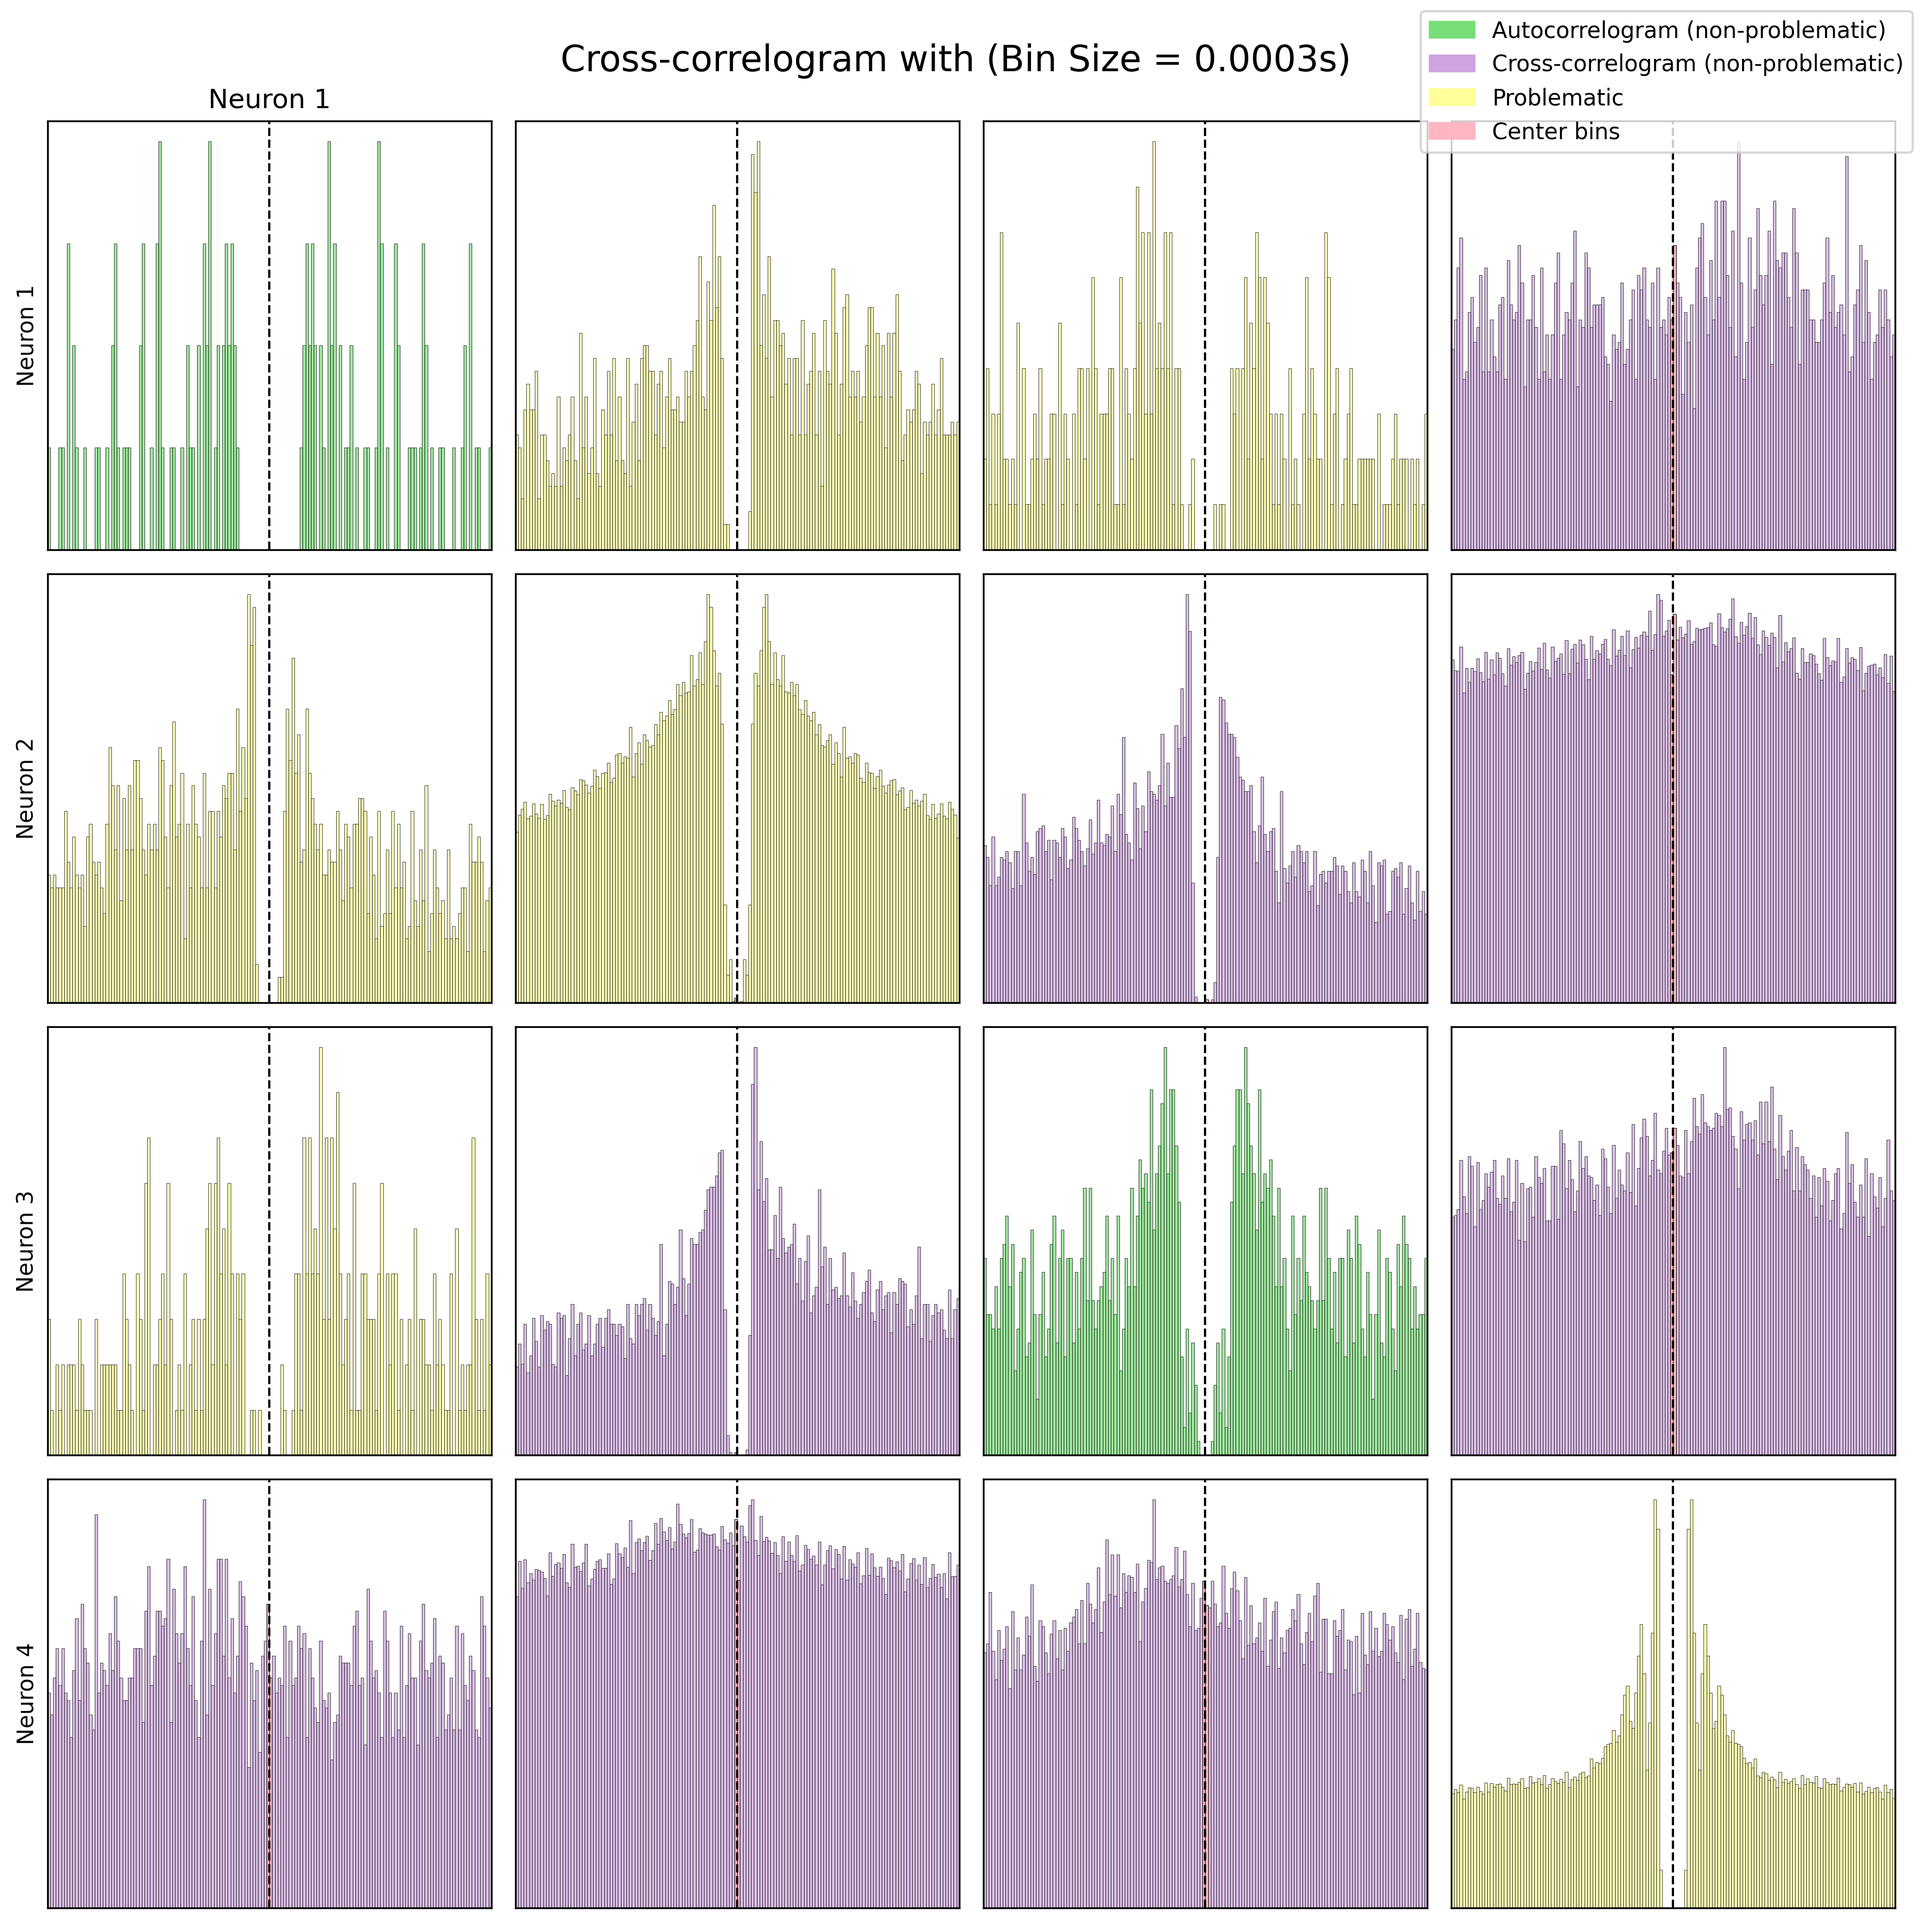
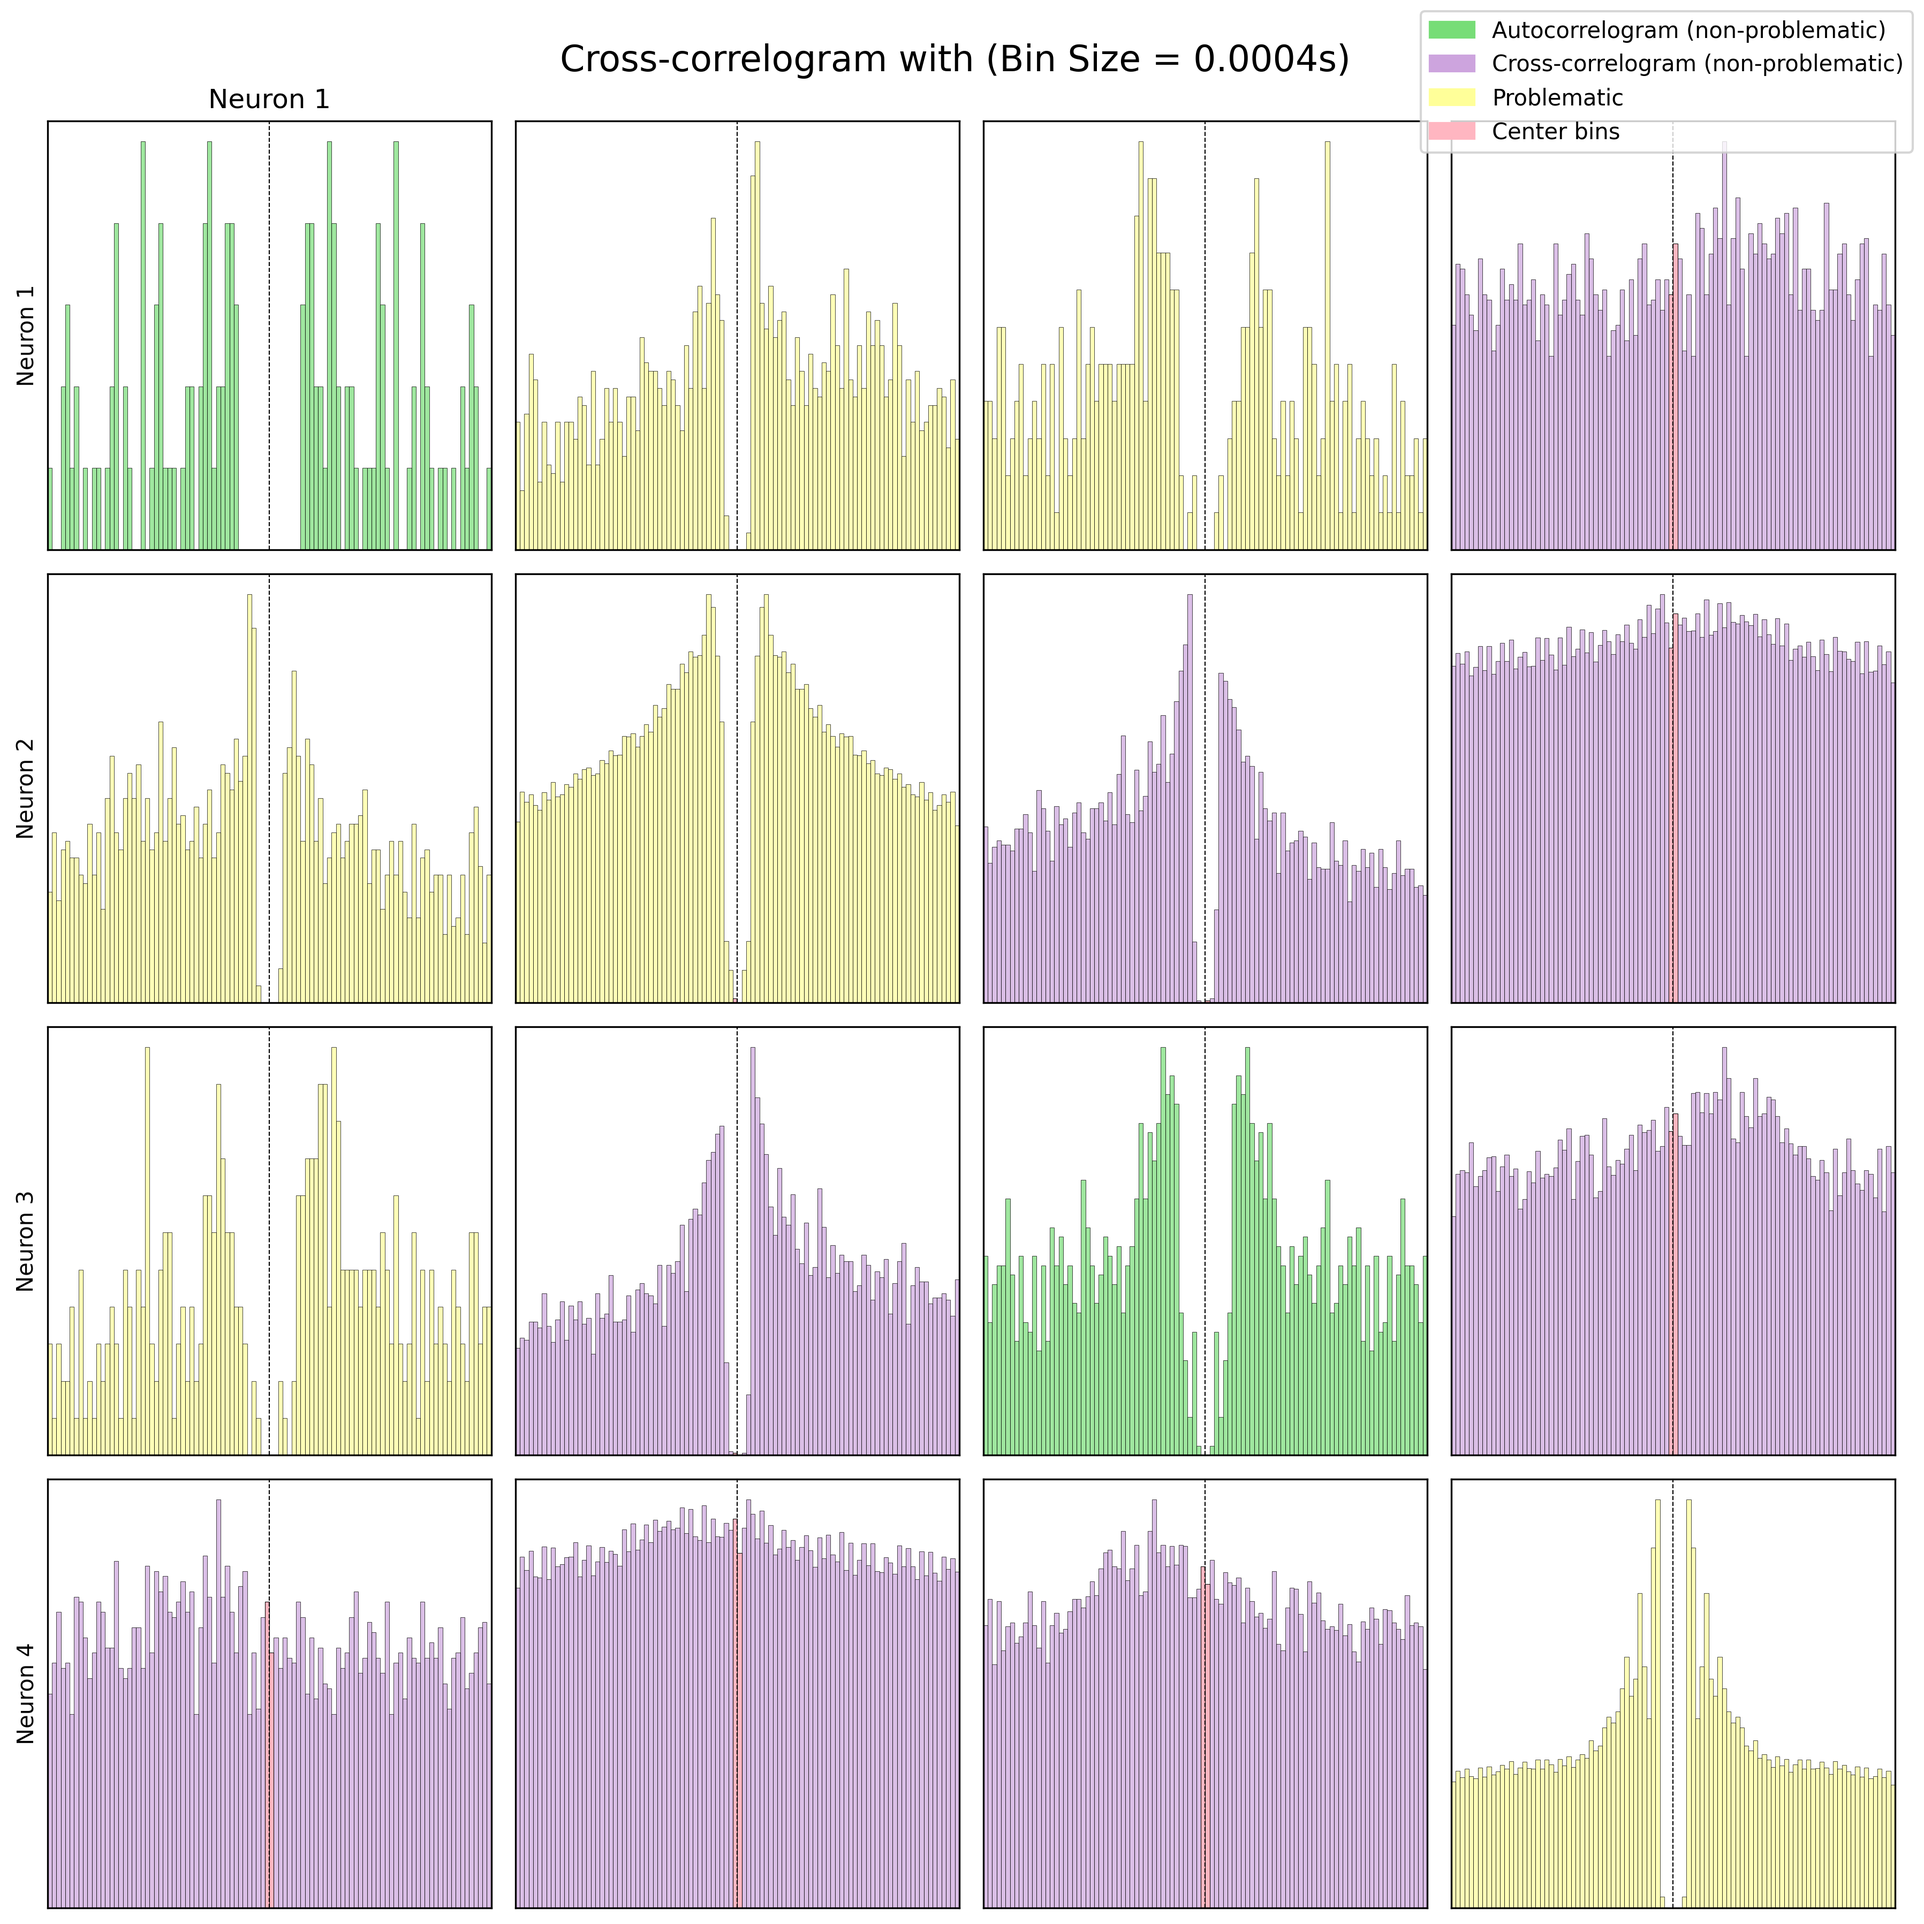
adapted bin calculation such that it aligns across functions

diff --git a/finalbsa.py b/finalbsa.py
@@ -107,11 +107,14 @@ TODO
 
 """
 # Bin sizes dictionary
-binsizes = { # We chose 0.0005s for all datasets because of our exclusion criteria
-    "ctrl_rat_1": 0.00025,
-    "ctrl_rat_2": 0.00025,
-    "exp_rat_2": 0.00025,
-    "exp_rat_3": 0.00025
+binsizes = { # We chose 0.0004s for all datasets because of our exclusion criteria -> elsevier "2 Define refractory period.
+# Immediately after a nerve impulse is triggered, an ordinary stimulus is not able to generate another impulse. This brief period is termed the refractory period. 
+# The refractory period consists of two phases—the absolute refractory period and the relative refractory period. The absolute refractory period lasts about 1/2500 of a second and is followed by the relative refractory period. 
+# During the relative refractory period, a higher intensity stimulus can trigger an impulse."
+    "ctrl_rat_1": 0.0004,
+    "ctrl_rat_2": 0.0004,
+    "exp_rat_2": 0.0004,
+    "exp_rat_3": 0.0004
 }
 
 # Example dictionary of datasets:
@@ -122,41 +125,24 @@ datasets = {
     "exp_rat_3":  (exp_rat_3_neurons_data, non_stimuli_time_4)
 }
 
-# Loop over each dataset
-# for dataset_name, (neurons_data, time_window) in datasets.items():
-#     # Plot and store correlogram data for this dataset
-#     correlogram_data = plot_correlogram_matrix(
-#         neurons_data=neurons_data,
-#         binsize=binsizes[dataset_name],
-#         dataset_name=dataset_name,
-#         time_window=time_window,
-#         save_folder=save_folder,
-#         store_data=True
-#     )
+# Loop over each dataset and compute and check the correlogram matrix
+for dataset_name, (neurons_data, time_window) in datasets.items():
+    # Plot and store correlogram data for this dataset
+    correlogram_data = plot_correlogram_matrix(
+        neurons_data=neurons_data,
+        binsize=binsizes[dataset_name],
+        dataset_name=dataset_name,
+        time_window=time_window,
+        save_folder=save_folder,
+        store_data=True
+    )
     
-#     # Loop over each stored correlogram and check conditions.
-#     for key, data in correlogram_data.items():
-#         # Determine correlogram type: if "vs" is not in the key, assume autocorrelogram.
-#         corr_type = "auto" if "vs" not in key else "cross"
-#         result = check_correlogram_conditions(neuron_id=key, corr_type=corr_type, hist_data=data)
-#         if result["problematic"]:
-#             print(f"{dataset_name} - {key} is problematic: {result['reason']}")
-
-correlogram_data = plot_correlogram_matrix(
-    neurons_data=ctrl_rat_2_neurons_data,
-    binsize=binsizes["ctrl_rat_2"],
-    dataset_name="ctrl_rat_2",
-    time_window=non_stimuli_time_2,
-    save_folder=save_folder,
-    store_data=True
-)
-
-# Loop over each stored correlogram and print only those flagged as problematic.
-for key, data in correlogram_data.items():
-    # Determine correlogram type: if "vs" is not in the key, assume autocorrelogram.
-    corr_type = "auto" if "vs" not in key else "cross"
-    result = check_correlogram_conditions(neuron_id=key, corr_type=corr_type, hist_data=data)
-    if result["problematic"]:
-        print(f"{key} is problematic: {result['reason']}")
+    # Loop over each stored correlogram and check conditions.
+    for key, data in correlogram_data.items():
+        # Determine correlogram type: if "vs" is not in the key, assume autocorrelogram.
+        corr_type = "auto" if "vs" not in key else "cross"
+        result = check_correlogram_conditions(neuron_id=key, corr_type=corr_type, hist_data=data)
+        if result["problematic"]:
+            print(f"{dataset_name} - {key} is problematic: {result['reason']}")
 # %% Exclude neurons based on the correlogram
 

diff --git a/functions/correlogram.py b/functions/correlogram.py
@@ -1,7 +1,7 @@
 import numpy as np
 
-def correlogram(t1, t2=None, binsize=.00025, limit=.02, auto=False,
-                density=False):
+def correlogram(t1, t2=None, binsize=.0004, limit=.02, auto=False,
+                density=False, normalize=True):
     """Return crosscorrelogram of two spike trains.
     Essentially, this algorithm subtracts each spike time in t1
     from all of t2 and bins the results with np.histogram, though
@@ -84,13 +84,8 @@ def correlogram(t1, t2=None, binsize=.00025, limit=.02, auto=False,
     t1 = np.sort(t1)
     t2 = np.sort(t2)
 
-    # Determine the bin edges for the histogram
-    # Later we will rely on the symmetry of  bins  for undoing  swap_args 
-    limit = float(limit)
-
-    # The numpy.arange method overshoots slightly the edges i.e. binsize + epsilon
-    # which leads to inclusion of spikes falling on edges.
-    num_bins = int(2 * limit / binsize)  # e.g., 2*0.02/0.0005 = 80
+    # Generate bin edges with np.linspace to avoid floating-point issues
+    num_bins = int(2 * limit / binsize)
     bins = np.linspace(-limit, limit, num_bins + 1)
 
     # Determine the indexes into  t2  that are relevant for each spike in  t1 
@@ -107,6 +102,7 @@ def correlogram(t1, t2=None, binsize=.00025, limit=.02, auto=False,
     count, bins = np.histogram(big, bins=bins, density=density)
 
     if auto:
+        # Peak at zero because: sum of all spikes in a train
         # Compensate for the peak at time zero that results in autocorrelations
         # by subtracting the total number of spikes from that bin. Note
         # possible numerical issue here because 0.0 may fall at a bin edge.
@@ -119,5 +115,19 @@ def correlogram(t1, t2=None, binsize=.00025, limit=.02, auto=False,
         # Here we rely on being able to simply reverse  counts . This is only
         # possible because of the way  bins  was defined (bins = -bins[::-1])
         count = count[::-1]
+
+    # Convert to float for safe division
+    counts = counts.astype(float)
+
+    # Optional normalization: divide by total no of spike pairs
+    #  * For cross-correlation: divide by len(t1)*len(t2) 
+    #  * For auto-correlation: divide by (len(t1)*len(t1)) if you want the same logic
+    #    or some other factor (like total spike pairs).
+    if normalize:
+        if auto:
+            denom = float(len(t1)) * float(len(t1))  # or len(t1) choose 2, depends on your convention
+        else:
+            denom = float(len(t1)) * float(len(t2))
+        counts /= denom
 
     return count, bins[1:]

diff --git a/functions/plot_correlogram_matrix.py b/functions/plot_correlogram_matrix.py
@@ -57,8 +57,6 @@ def plot_correlogram_matrix(neurons_data, binsize, dataset_name, limit=0.02, tim
             
             # Calculate the vertical line position as the average of the two center bin centers.
             center_line = (bin_centers[center_left] + bin_centers[center_right]) / 2
-            print(f"{'Neuron' if i==j else 'Neuron pair'} {key}: center_left index={center_left} (count={counts[center_left]}), "
-                  f"center_right index={center_right} (count={counts[center_right]}), vertical line at {center_line}")
             
             # Check if the current correlogram is problematic based on the center bins.
             # For autocorrelograms: problematic if either center bin is non-empty.
@@ -67,8 +65,6 @@ def plot_correlogram_matrix(neurons_data, binsize, dataset_name, limit=0.02, tim
                 is_problematic = (counts[center_left] > 0 or counts[center_right] > 0)
             else:       # cross-correlogram
                 is_problematic = (counts[center_left] == 0 and counts[center_right] == 0)
-            
-            print(f"{key}: is_problematic={is_problematic}")
             
             # Set color: if problematic, use pastel yellow; otherwise, use default.
             if is_problematic:
@@ -91,8 +87,7 @@ def plot_correlogram_matrix(neurons_data, binsize, dataset_name, limit=0.02, tim
                 center_left = center_right = n_bins // 2
             center_line = (bin_centers[center_left] + bin_centers[center_right]) / 2
             
-            ax.axvline(center_line, color='black', linestyle='--', linewidth=1)
-
+            ax.axvline(center_line, color='black', linestyle='--', linewidth=0.5)
             
             # Overlay the central bin(s) in pastel pink (for both auto and cross)
             pink_color = '#FFB6C1'
@@ -118,7 +113,7 @@ def plot_correlogram_matrix(neurons_data, binsize, dataset_name, limit=0.02, tim
                 ax_mirror.set_xlim(-limit, limit)
                 ax_mirror.set_xticks([])
                 ax_mirror.set_yticks([])
-                ax_mirror.axvline(-center_line, color='black', linestyle='--', linewidth=1)
+                ax_mirror.axvline(-center_line, color='black', linestyle='--', linewidth=0.5)
                 ax_mirror.bar(-bin_centers[center_left:center_left+1],
                               counts[center_left:center_left+1],
                               width=np.diff(bins)[center_left:center_left+1],

diff --git a/functions/check_correlogram_conditions.py b/functions/check_correlogram_conditions.py
@@ -56,11 +56,8 @@ def check_correlogram_conditions(t1=None, t2=None, binsize=0.0005, limit=0.02, a
     # Compute bin centers for information (not used for center calculation below)
     n_bins = len(counts)
     # Define center bins: if even, use the two middle bins; if odd, use the same middle bin for both.
-    if n_bins % 2 == 0:
-        center_left = n_bins // 2 - 1
-        center_right = n_bins // 2
-    else:
-        center_left = center_right = n_bins // 2
+    center_left = n_bins // 2 - 1
+    center_right = n_bins // 2
 
     # For autocorrelograms: condition A is if either center bin is non-empty.
     # Condition B is if the bin immediately to the left of center_left or right of center_right holds the global maximum.
@@ -83,6 +80,7 @@ def check_correlogram_conditions(t1=None, t2=None, binsize=0.0005, limit=0.02, a
             if condition_B:
                 reasons.append(f"global peak in neighbor bin (index: {global_peak_index})")
             results["reason"] = "; ".join(reasons)
+            
     elif corr_type == "cross":
         # For cross-correlograms, problematic if both center bins are empty.
         if left_center_val == 0 and right_center_val == 0:
